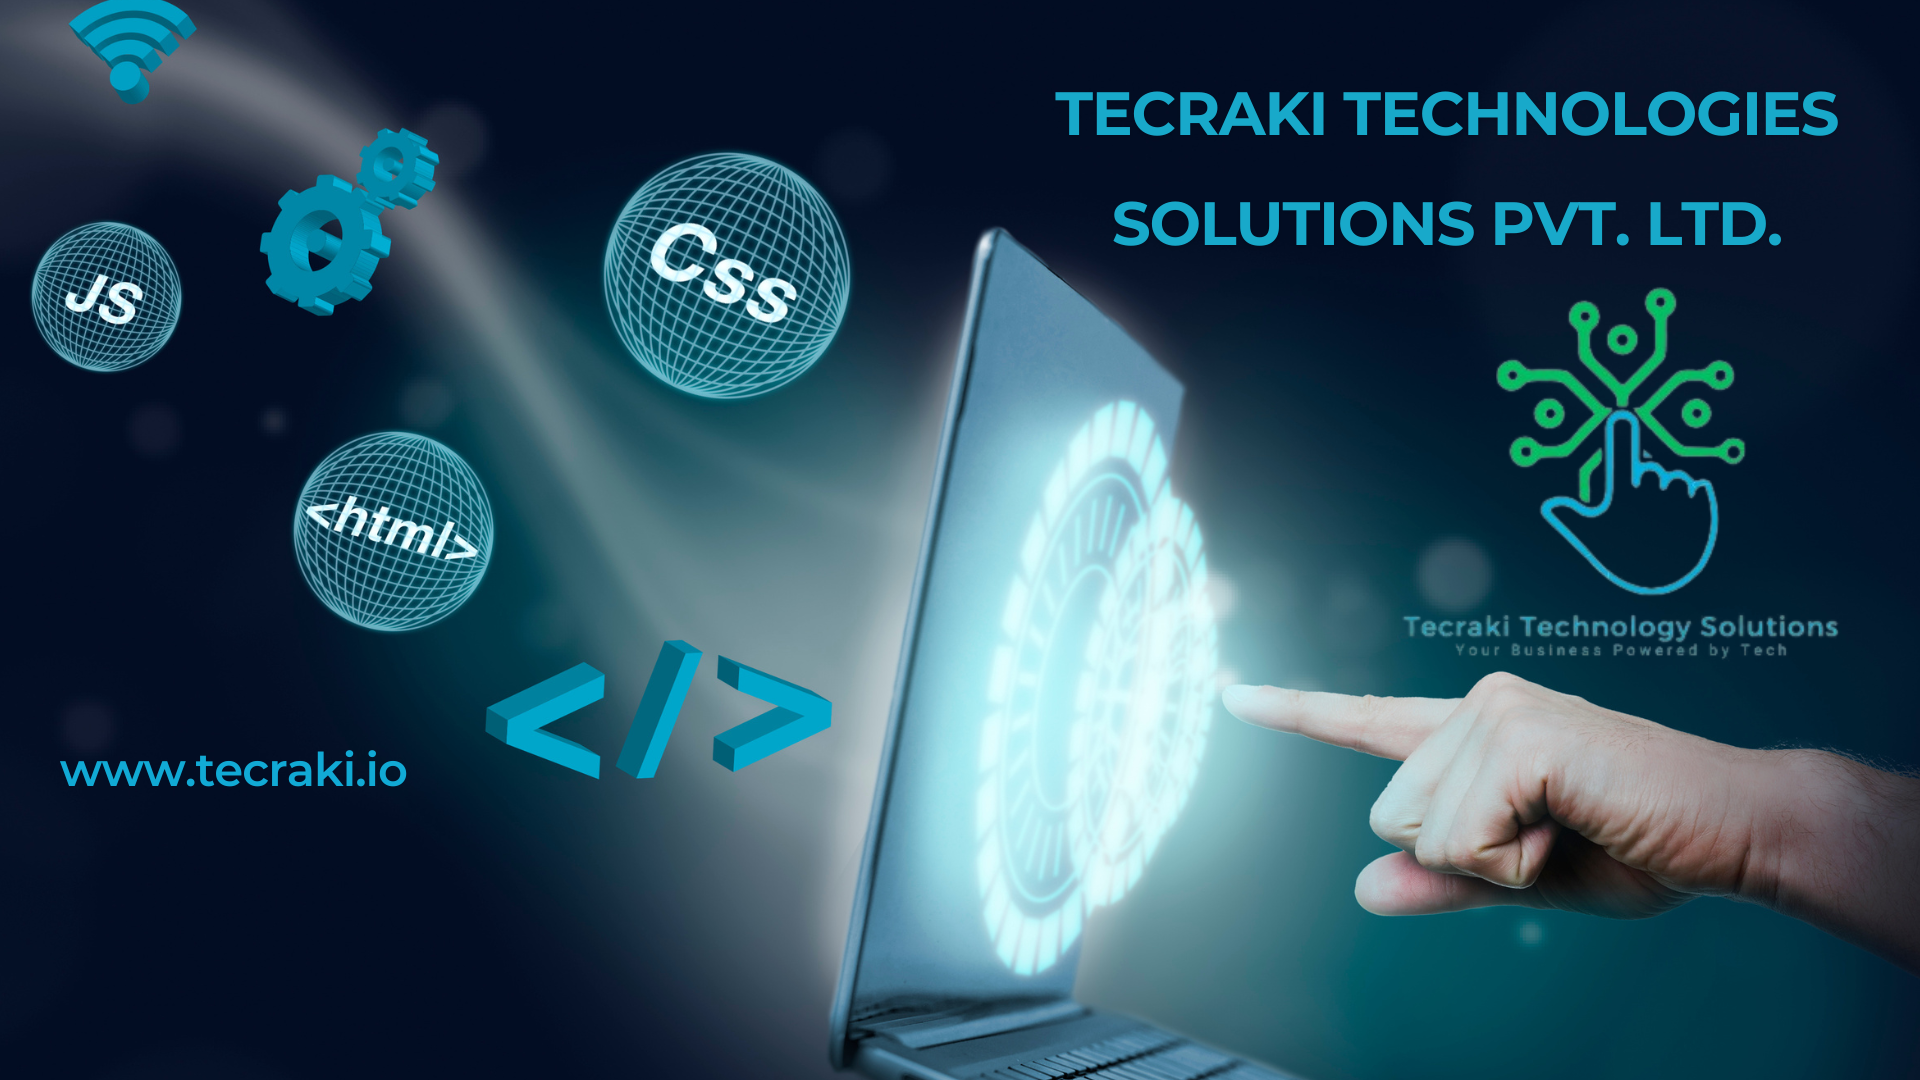
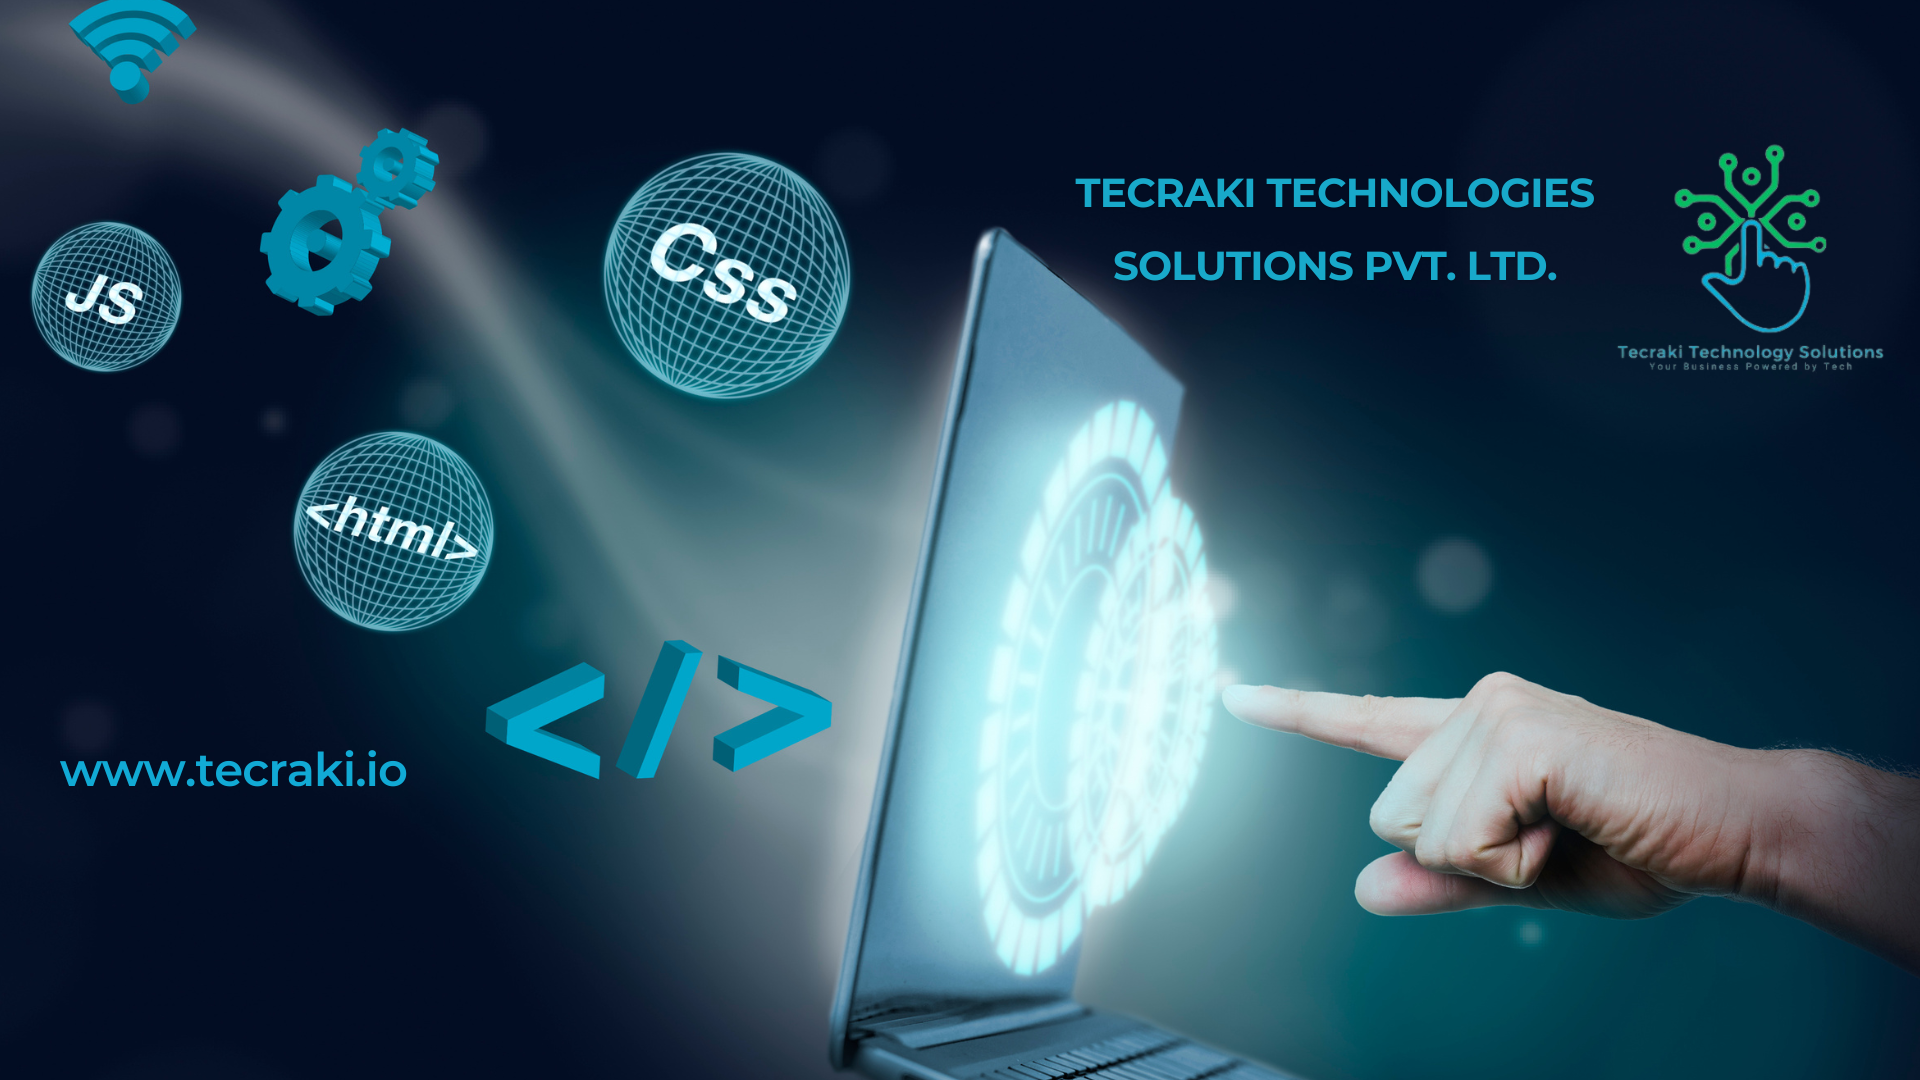
contact details and portfolio details updated

Changed region(s): [[0.5312, 0.0611, 0.9688, 0.6111]]

diff --git a/index.html b/index.html
@@ -10,7 +10,7 @@
   <meta content="" name="keywords">
 
   <!-- Favicons -->
-  <link href="assets/img/favicon.png" rel="icon">
+  <link href="assets/img/favicon1.png" rel="icon">
   <link href="assets/img/apple-touch-icon.png" rel="apple-touch-icon">
 
   <!-- Google Fonts -->
@@ -43,7 +43,7 @@
   <header id="header" class="fixed-top header-inner-pages">
     <div class="container d-flex align-items-center justify-content-between">
 
-      <h1 class="logo"><a href="index.html">Tecraki Technologies Solutions Pvt. Ltd.</a></h1>
+      <h1 class="logo"><a href="index.html">Tecraki Technology Solutions Pvt. Ltd.</a></h1>
       <!-- Uncomment below if you prefer to use an image logo -->
       <!-- <a href="index.html" class="logo"><img src="assets/img/logo.png" alt="" class="img-fluid"></a>-->
 
@@ -88,11 +88,11 @@
       <div class="carousel-inner" role="listbox">
 
         <!-- Slide 1 -->
-        <div class="carousel-item active" style="background-image: url(assets/img/slide/slide2.1.png)">
+        <div class="carousel-item active" style="background-image: url(assets/img/slide/slide1.png)">
           <div class="carousel-container">
             <div class="container">
               <h2 class="animated fadeInDown">Welcome to <span>Tecraki</span></h2>
-              <p class="animated fadeInUp">Technology Powered By Tarakki </p>
+              <p class="animated fadeInUp"> Tarakki Powered By Technology </p>
                  <a href="#about" class="btn-get-started animated fadeInUp scrollto">Read More</a>
             </div>
           </div>
@@ -103,16 +103,16 @@
           <div class="carousel-container">
             <div class="container">
               <h2 class="animated fadeInDown"><b>Why Tecraki (TTS)</b></h2>
-              <p class="animated fadeInUp">With a solid background in emerging technologies like Cloud Computing, AI, IoT 
-                <br>
+              <p class="animated fadeInUp  slide-para">With a solid background in emerging technologies like Cloud Computing, AI, IoT 
+                
                 and experience in digitizing variety of business functions,what sets 
-                <br>
+                
                  us apart is our unwavering commitment to excellence, creativity, and 
-                <br>
-                a user-centric approach. We don't just build products; we craft experiences. 
+                
+                a user-centric approach. We don't just build products, we craft experiences. 
                 <br>
                 Our team of brilliant minds brings together diverse skills and 
-                <br>
+                
                 perspectives to create solutions that not only meet but exceed expectations.
               </p>
                      <a href="#about" class="btn-get-started animated fadeInUp scrollto">Read More</a>
@@ -125,8 +125,10 @@
           <div class="carousel-container">
             <div class="container">
               <h2 class="animated fadeInDown">Strength</h2>
-              <p class="animated fadeInUp">Customer Centric  We exist to cater to our customers and to make sure our customers get the best out of the work we do with them. Keeping customer’s goals at the center of our design and development helps us ensure we are aligned and are delighting our customers.</p>
-              <p>Diverse Functional Experience We have good understanding & experience in most industry domains and customize our solutions to best meet the needs of our customers.</p>
+              <p class="animated fadeInUp slide-para">Customer Centric  We exist to cater to our customers and to make sure our customers get the best out of the work we do with them.
+                 Keeping customer's goals at the center of our design and development helps us ensure we are aligned and are delighting our customers.
+                 <br>
+              Diverse Functional Experience We have good understanding & experience in most industry domains and customize our solutions to best meet the needs of our customers.</p>
               <a href="#about" class="btn-get-started animated fadeInUp scrollto">Read More</a>
             </div>
           </div>
@@ -585,7 +587,8 @@
         <div class="section-title">
           <h2>Testimonials</h2>
           <h3>What They <span>Are Saying</span> About Us</h3>
-          <p>Ut possimus qui ut temporibus culpa velit eveniet modi omnis est adipisci expedita at voluptas atque vitae autem.</p>
+          <p>Tecraki Technology Solutions brought strategic excellence to our business processes.
+             Their insights and technology recommendations elevated our operations to new heights.</p>
         </div>
 
         <div class="row justify-content-center">
@@ -600,7 +603,8 @@
                   <h4>Ceo &amp; Founder</h4>
                   <p>
                     <i class="bx bxs-quote-alt-left quote-icon-left"></i>
-                    Proin iaculis purus consequat sem cure digni ssim donec porttitora entum suscipit rhoncus. Accusantium quam, ultricies eget id, aliquam eget nibh et. Maecen aliquam, risus at semper.
+                    Tecraki Technology Solutions transformed our operations with their strategic approach, 
+                    delivering solutions that aligned seamlessly with our business goals.
                     <i class="bx bxs-quote-alt-right quote-icon-right"></i>
                   </p>
                 </div>
@@ -613,8 +617,8 @@
                   <h4>Designer</h4>
                   <p>
                     <i class="bx bxs-quote-alt-left quote-icon-left"></i>
-                    Export tempor illum tamen malis malis eram quae irure esse labore quem cillum quid cillum eram malis quorum velit fore eram velit sunt aliqua noster fugiat irure amet legam anim culpa.
-                    <i class="bx bxs-quote-alt-right quote-icon-right"></i>
+                    Tecraki's rapid scalability and innovation expertise proved invaluable,
+                     propelling our startup forward and establishing them as our trusted technology partner.                    <i class="bx bxs-quote-alt-right quote-icon-right"></i>
                   </p>
                 </div>
               </div><!-- End testimonial-item -->
@@ -623,11 +627,11 @@
                 <div class="testimonial-item mt-4">
                   <img src="assets/img/testimonials/testimonials-3.jpg" class="testimonial-img" alt="">
                   <h3>Jena Karlis</h3>
-                  <h4>Store Owner</h4>
+                  <h4>CTO</h4>
                   <p>
                     <i class="bx bxs-quote-alt-left quote-icon-left"></i>
-                    Enim nisi quem export duis labore cillum quae magna enim sint quorum nulla quem veniam duis minim tempor labore quem eram duis noster aute amet eram fore quis sint minim.
-                    <i class="bx bxs-quote-alt-right quote-icon-right"></i>
+                    Tecraki's data and analytics prowess empowered us with actionable insights, 
+                    revolutionizing our decision-making processes and driving our financial success.                    <i class="bx bxs-quote-alt-right quote-icon-right"></i>
                   </p>
                 </div>
               </div><!-- End testimonial-item -->
@@ -639,7 +643,8 @@
                   <h4>Freelancer</h4>
                   <p>
                     <i class="bx bxs-quote-alt-left quote-icon-left"></i>
-                    Fugiat enim eram quae cillum dolore dolor amet nulla culpa multos export minim fugiat minim velit minim dolor enim duis veniam ipsum anim magna sunt elit fore quem dolore labore illum veniam.
+                    Tecraki's dedication to precision in healthcare IT was evident in the development of our clinical and non-clinical applications, 
+                    significantly impacting patient care.
                     <i class="bx bxs-quote-alt-right quote-icon-right"></i>
                   </p>
                 </div>
@@ -649,10 +654,11 @@
                 <div class="testimonial-item mt-4">
                   <img src="assets/img/testimonials/testimonials-5.jpg" class="testimonial-img" alt="">
                   <h3>John Larson</h3>
-                  <h4>Entrepreneur</h4>
+                  <h4>Chief Medical Officer</h4>
                   <p>
                     <i class="bx bxs-quote-alt-left quote-icon-left"></i>
-                    Quis quorum aliqua sint quem legam fore sunt eram irure aliqua veniam tempor noster veniam enim culpa labore duis sunt culpa nulla illum cillum fugiat legam esse veniam culpa fore nisi cillum quid.
+                    Tecraki's customized solutions for travel and hospitality applications, including an innovative HRM system,
+                     elevated our operational efficiency and customer satisfaction.
                     <i class="bx bxs-quote-alt-right quote-icon-right"></i>
                   </p>
                 </div>
@@ -662,10 +668,11 @@
                 <div class="testimonial-item mt-4">
                   <img src="assets/img/testimonials/testimonials-6.jpg" class="testimonial-img" alt="">
                   <h3>Emily Harison</h3>
-                  <h4>Store Owner</h4>
+                  <h4>E-commerce Entrepreneur</h4>
                   <p>
                     <i class="bx bxs-quote-alt-left quote-icon-left"></i>
-                    Eius ipsam praesentium dolor quaerat inventore rerum odio. Quos laudantium adipisci eius. Accusamus qui iste cupiditate sed temporibus est aspernatur. Sequi officiis ea et quia quidem.
+                    Tecraki's web design and development expertise delivered a website with a perfect blend of aesthetics and functionality,
+                    providing our customers with a seamless shopping experience.
                     <i class="bx bxs-quote-alt-right quote-icon-right"></i>
                   </p>
                 </div>
@@ -806,7 +813,7 @@
 
           <div class="col-xl-3 col-lg-4 col-md-6" data-wow-delay="0.2s">
             <div class="member">
-              <img src="assets/img/team/team-3.jpg" class="img-fluid" alt="">
+              <img src="assets/img/team/team-4.jpg" class="img-fluid" alt="">
               <div class="member-info">
                 <div class="member-info-content">
                   <h4>Urvashi Bharti</h4>
@@ -824,11 +831,11 @@
 
           <div class="col-xl-3 col-lg-4 col-md-6" data-wow-delay="0.3s">
             <div class="member">
-              <img src="assets/img/team/team-4.jpg" class="img-fluid" alt="">
+              <img src="assets/img/team/team-3.jpg" class="img-fluid" alt="">
               <div class="member-info">
                 <div class="member-info-content">
-                  <h4>Amanda Jepson</h4>
-                  <span>Accountant</span>
+                  <h4>Ravindra Kumar</h4>
+                  <span>Developer</span>
                 </div>
                 <div class="social">
                   <a href=""><i class="bi bi-twitter"></i></a>
@@ -873,7 +880,7 @@
                   <div class="col-md-6 info d-flex flex-column align-items-stretch">
                     <i class="bx bx-phone"></i>
                     <h4>Call Us</h4>
-                    <p>+91-8527890334<br></p>
+                    <p>+91-1204941137<br>+91-8448990699</p>
                   </div>
                   <div class="col-md-6 info d-flex flex-column align-items-stretch">
                     <i class="bx bx-envelope"></i>

diff --git a/portfolio-details.html b/portfolio-details.html
@@ -154,7 +154,7 @@
         <div class="row">
           <div class="col-lg-6">
             <h4>Our Newsletter</h4>
-            <p>Tamen quem nulla quae legam multos aute sint culpa legam noster magna</p>
+            <p>Subscribe to our newsletter to receive emails about new template releases and updates</p>
           </div>
           <div class="col-lg-6">
             <form action="" method="post">
@@ -196,18 +196,20 @@
               <div class="col-lg-3 col-md-6 footer-contact">
                 <h4>Contact Us</h4>
                 <p>
-                  A108 Adam Street <br>
-                  New York, NY 535022<br>
-                  United States <br><br>
-                  <strong>Phone:</strong> +1 5589 55488 55<br>
-                  <strong>Email:</strong> info@example.com<br>
+                  Office 421, Rishab Cloud 9 <br>
+                  Sector 1 ,Vaishali , Ghaziabad,201019<br>
+                  India  <br><br>
+                  <strong>Phone:</strong> +91 1204941137,
+                                         <br>+91 8448990699<br>
+                  <strong>Email:</strong> contact@tecraki.io<br>
                 </p>
 
               </div>
 
               <div class="col-lg-3 col-md-6 footer-info">
-                <h3>About Hidayah</h3>
-                <p>Cras fermentum odio eu feugiat lide par naso tierra. Justo eget nada terra videa magna derita valies darta donna mare fermentum iaculis eu non diam phasellus.</p>
+                <h3>About Us</h3>
+                <p>Welcome to Tecraki, where technology innovation meets impact. Our journey began with a belief
+                   that technology helps businesses grow and will make this world a better place.</p>
                 <div class="social-links mt-3">
                   <a href="#" class="twitter"><i class="bx bxl-twitter"></i></a>
                   <a href="#" class="facebook"><i class="bx bxl-facebook"></i></a>
@@ -225,7 +227,7 @@
 
     <div class="container">
       <div class="copyright">
-        &copy; Copyright <strong><span>Hidayah</span></strong>. All Rights Reserved
+        &copy; Copyright <strong><span>Techraki</span></strong>. All Rights Reserved
       </div>
       <div class="credits">
         <!-- All the links in the footer should remain intact. -->

diff --git a/assets/css/style.css b/assets/css/style.css
@@ -1,6 +1,6 @@
 /**
 * Template Name: Hidayah
-* Updated: Sep 18 2023 with Bootstrap v5.3.2
+* Updated: hep 18 2023 with Bootstrap v5.3.2
 * Template URL: https://bootstrapmade.com/hidayah-free-simple-html-template-for-corporate/
 * Author: BootstrapMade.com
 * License: https://bootstrapmade.com/license/
@@ -505,6 +505,11 @@ h6 {
 
 #hero .btn-get-started:hover {
   background: #5697d0;
+}
+
+.slide-para{
+  text-align:justify;
+  justify-content: baseline;
 }
 
 @media (max-width: 768px) {
